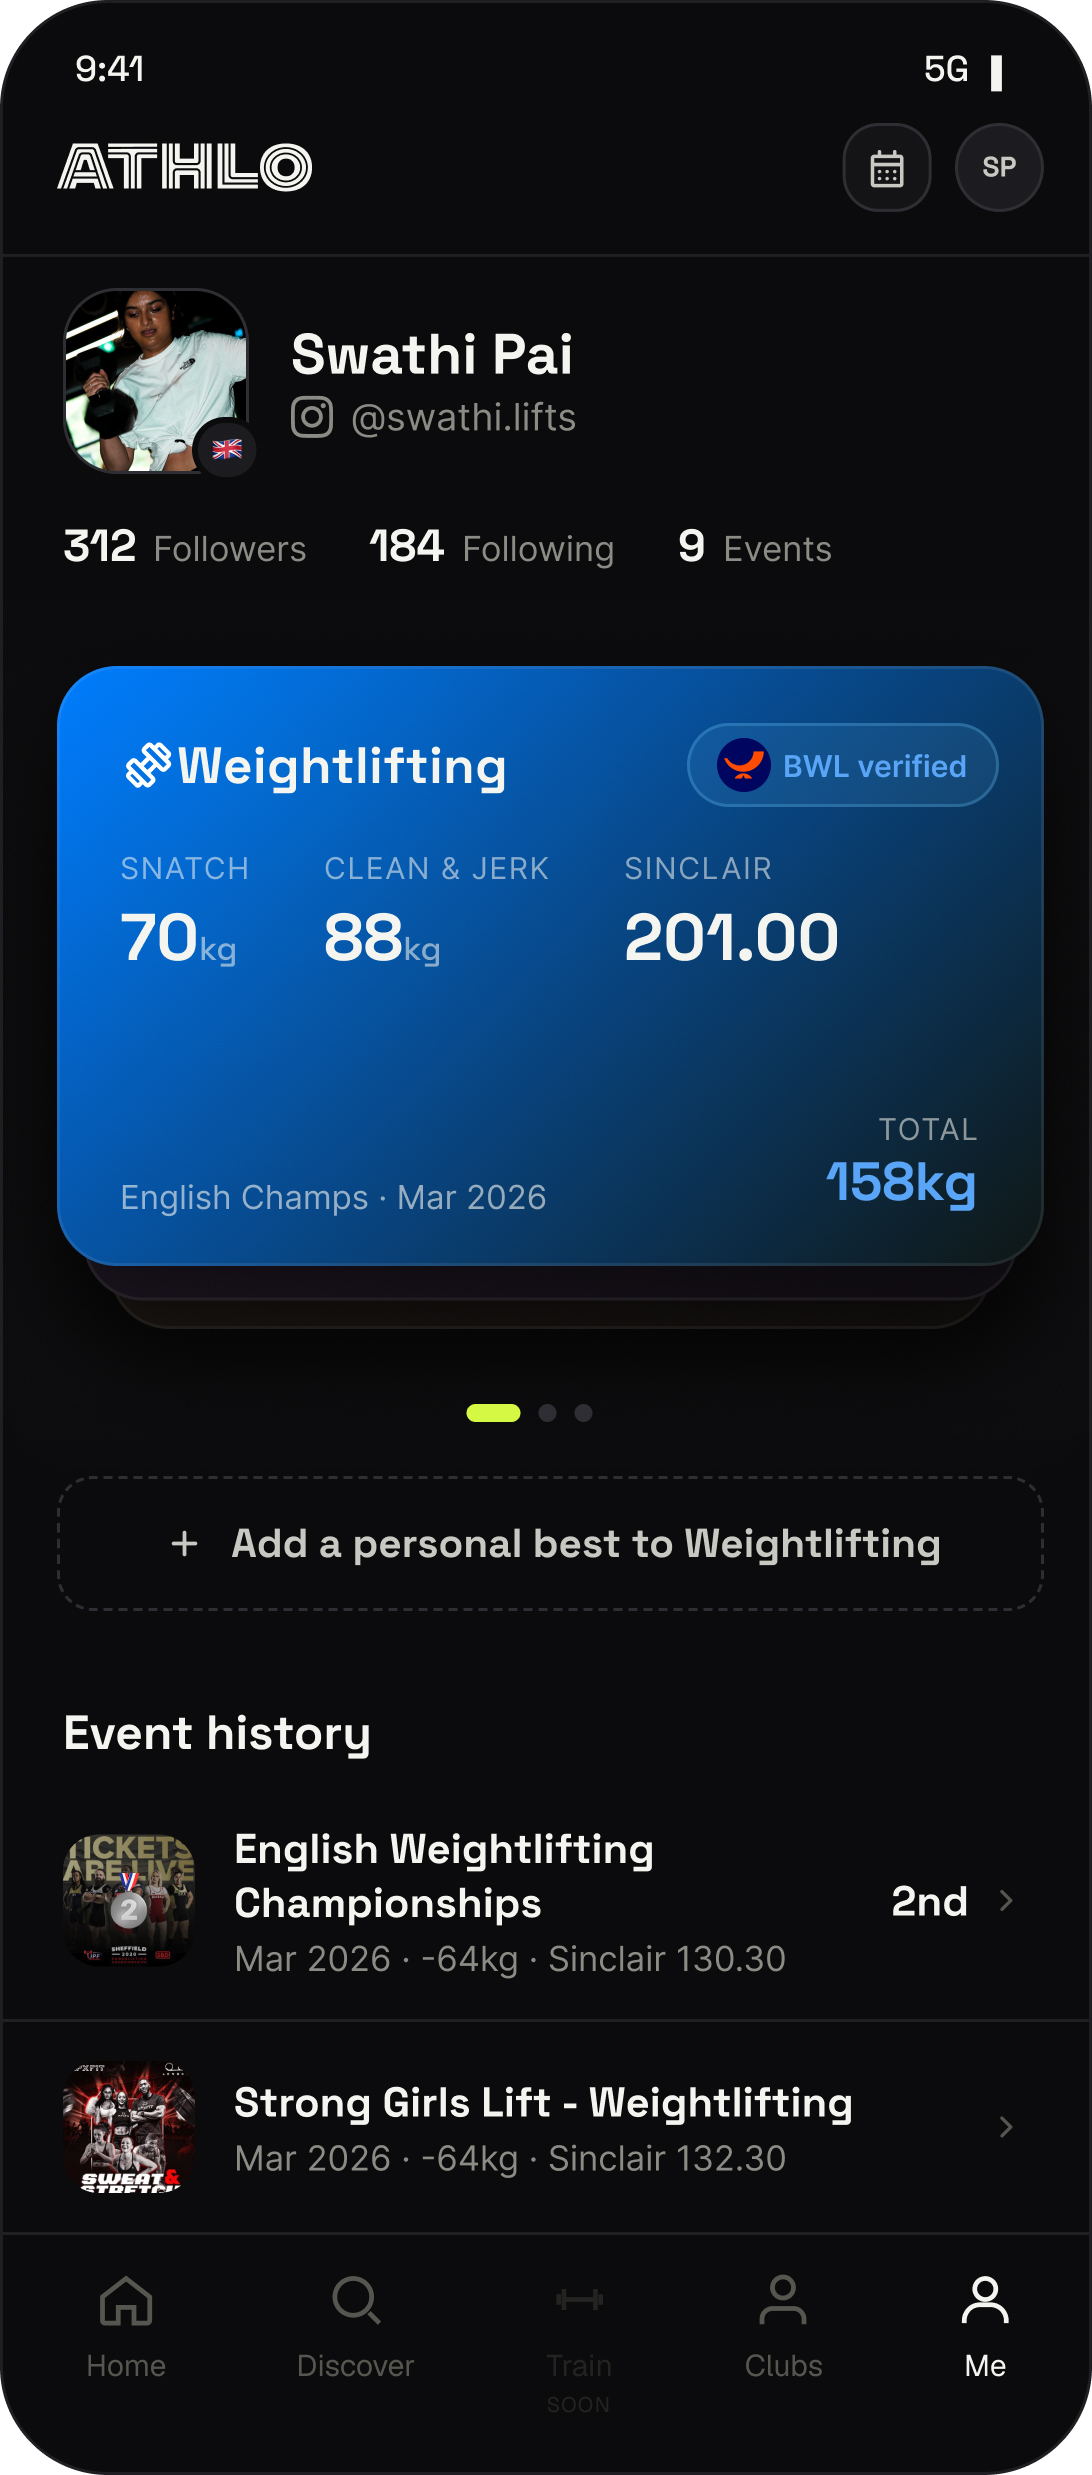
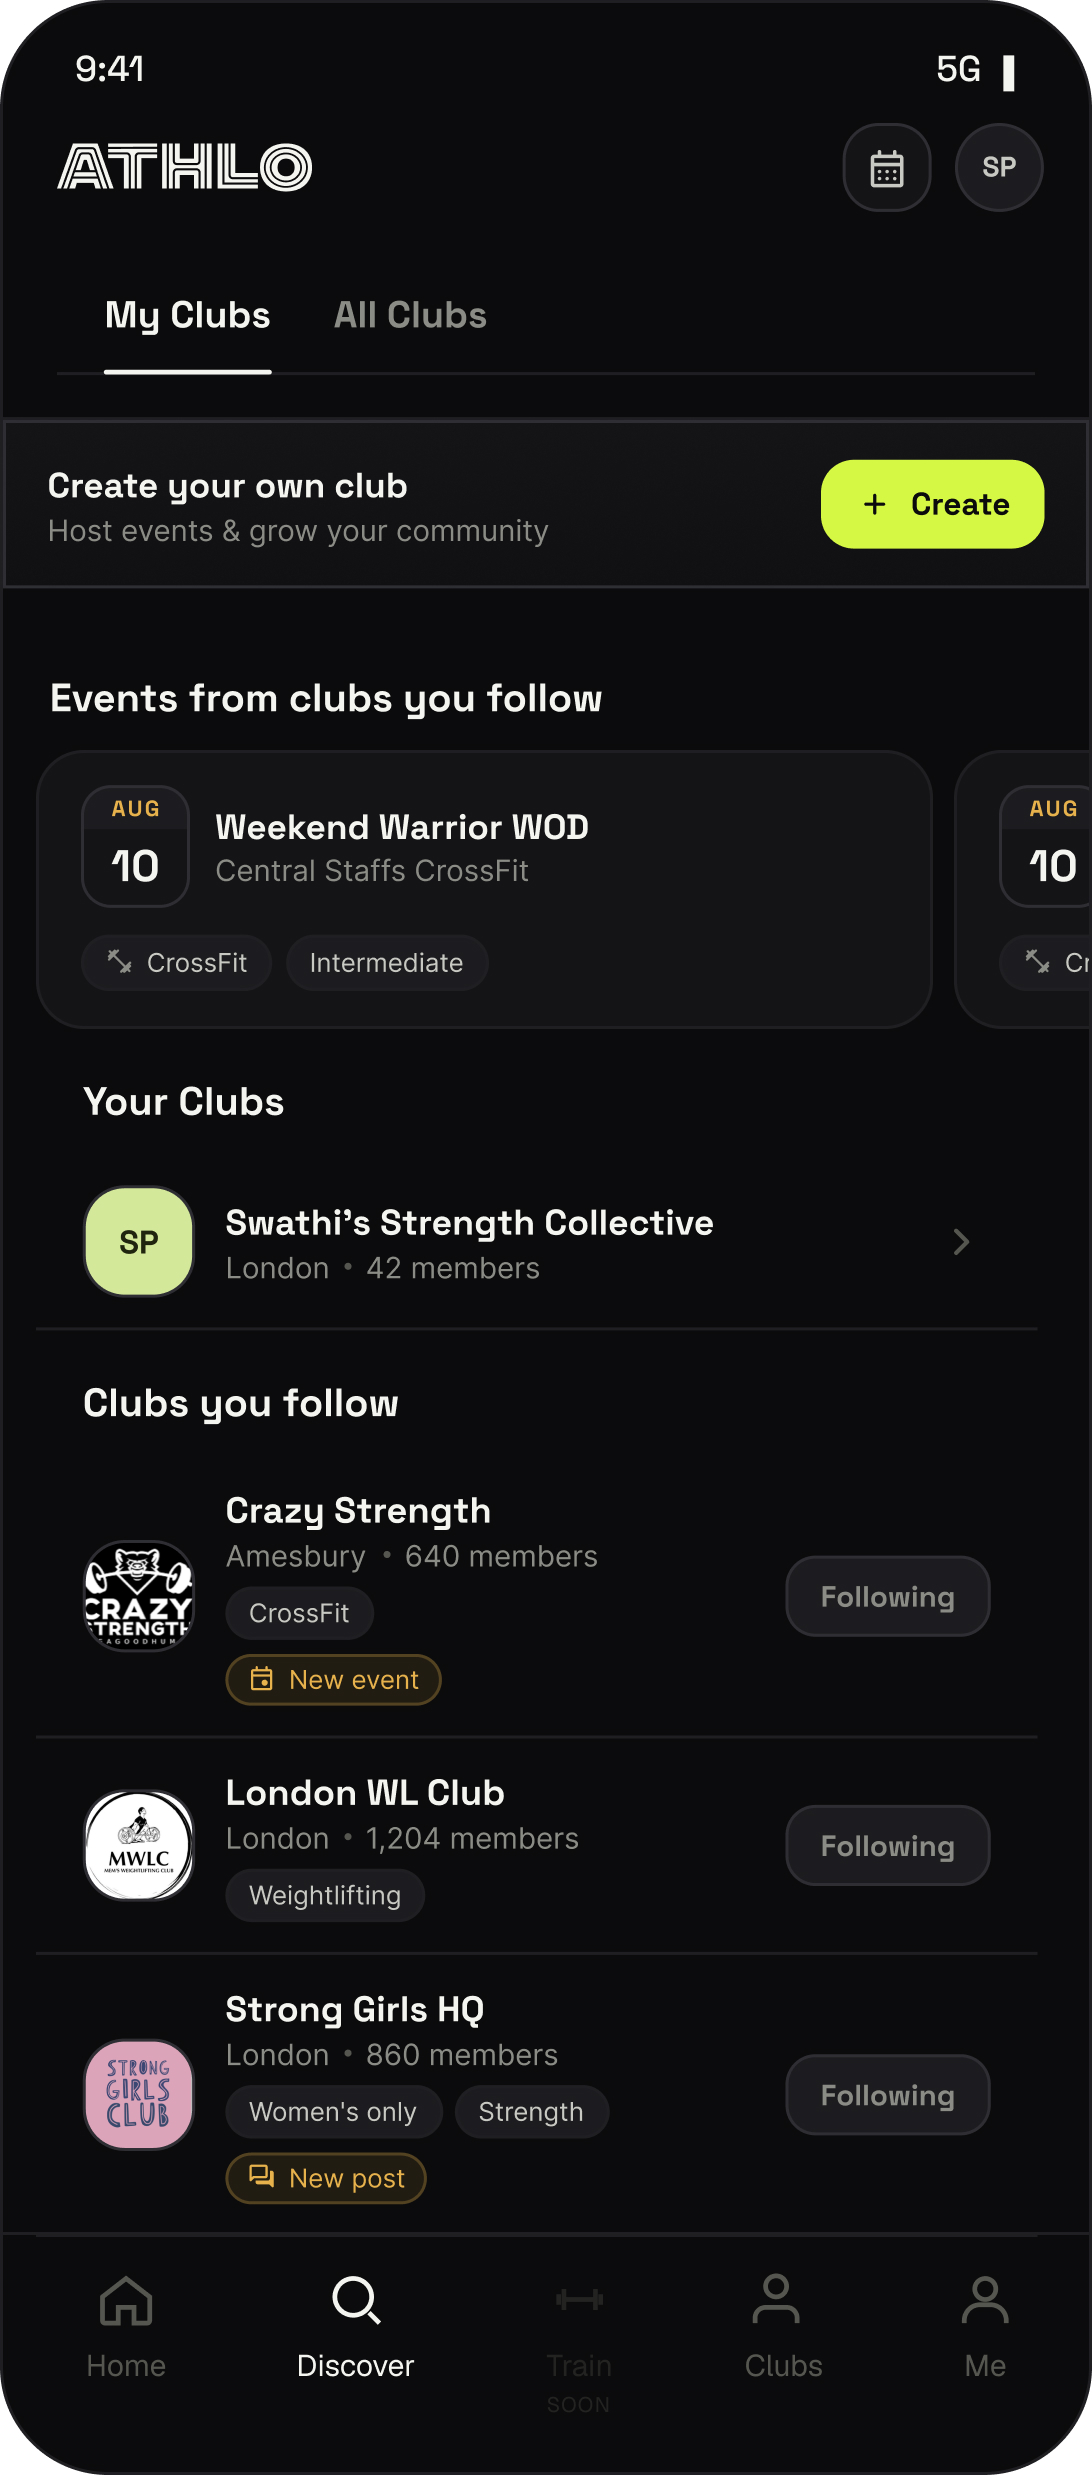
Swap How it works' "build your community" screenshot to the My Clubs screen
Replaces the previous athlete-profile screenshot in the 2nd athlete card
with the uploaded My Clubs screenshot — a more literal match for "Follow
clubs & build your community" (shows the Create-club banner, followed
clubs with member counts, and Following toggles). Same 1092x2475px
source dimensions as before, so no layout/ratio code changes needed —
alt text updated to describe the new image content.

Claude-Session: https://claude.ai/code/session_01DSGvGBoQ75E8TMBePmeb22

diff --git a/components/marketing/how-it-works.tsx b/components/marketing/how-it-works.tsx
@@ -58,7 +58,7 @@ const ATHLETE_CARDS: CardContent[] = [
     title: "Follow clubs & build your community",
     label: "Community",
     subtitle: "Follow the clubs you train with and stay in the loop on what they're running next.",
-    alt: "Athlo Club athlete profile screen showing followers, following count, and a verified weightlifting personal-best card.",
+    alt: "Athlo Club My Clubs screen showing a club the athlete created, and a list of followed clubs with member counts and new-activity notifications.",
     imageSrc: "/home/athlete-2.jpg",
     imageWidth: 1092,
     imageHeight: 2475,
